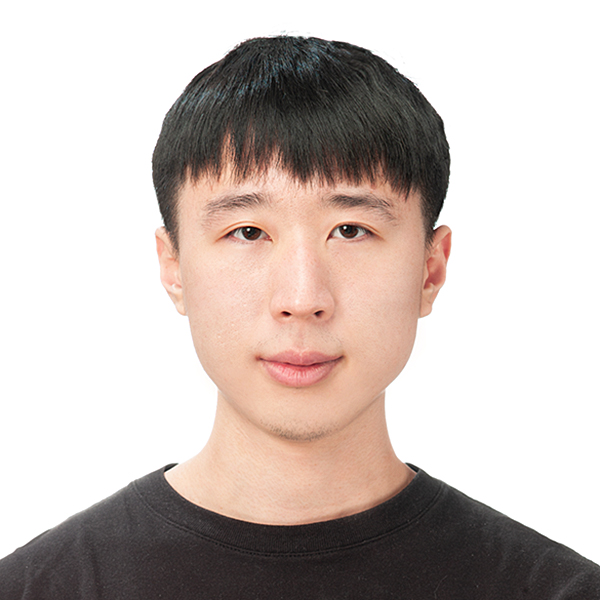
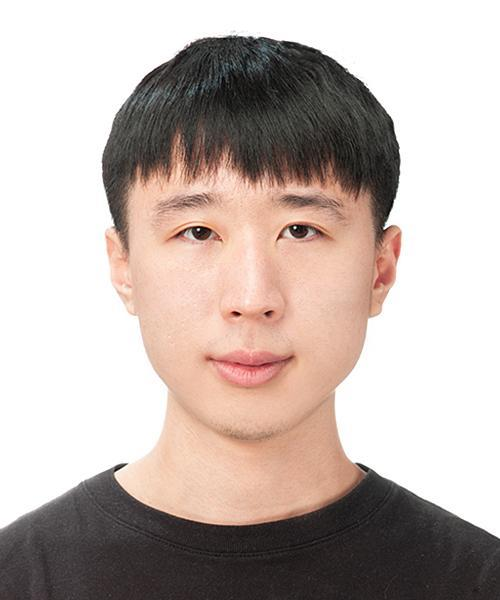
add profile images and resize them

diff --git a/about.html b/about.html
@@ -178,7 +178,7 @@
                 <div class="col-lg-3 col-md-6 wow fadeInUp" data-wow-delay="0.7s">
                     <div class="team-item position-relative rounded overflow-hidden">
                         <div class="overflow-hidden">
-                            <img class="img-fluid" src="img/team-1.png" alt="">
+                            <img class="img-fluid" src="img/team-KhizarAnjum.jpg" alt="">
                         </div>
                         <div class="team-text bg-light text-center p-4">
                             <h5>Khizar Anjum</h5>
@@ -227,7 +227,7 @@
                 <div class="col-lg-3 col-md-6 wow fadeInUp" data-wow-delay="0.7s">
                     <div class="team-item position-relative rounded overflow-hidden">
                         <div class="overflow-hidden">
-                            <img class="img-fluid" src="img/team-1.png" alt="">
+                            <img class="img-fluid" src="img/team-AayushiKasera.jpg" alt="">
                         </div>
                         <div class="team-text bg-light text-center p-4">
                             <h5>Aayushi Kasera</h5>
@@ -257,7 +257,7 @@
                 <div class="col-lg-3 col-md-6 wow fadeInUp" data-wow-delay="0.7s">
                     <div class="team-item position-relative rounded overflow-hidden">
                         <div class="overflow-hidden">
-                            <img class="img-fluid" src="img/team-1.png" alt="">
+                            <img class="img-fluid" src="img/team-AdityaKesari.jpeg" alt="">
                         </div>
                         <div class="team-text bg-light text-center p-4">
                             <h5>Aditya Kesari</h5>

diff --git a/index.html b/index.html
@@ -105,7 +105,7 @@
             <div class="row g-5">
                 <div class="col-lg-6 wow fadeIn" data-wow-delay="0.1s">
                     <div class="d-flex flex-column">
-                        <img class="img-fluid rounded w-75 align-self-end" src="img/networking.jpg" alt="">
+                        <img class="img-fluid rounded w-75 align-self-end" src="img/conference.jpeg" alt="">
                     </div>
                 </div>
                 <div class="col-lg-6 wow fadeIn" data-wow-delay="0.5s">

diff --git a/resize_img.py b/resize_img.py
@@ -38,7 +38,7 @@ def resize_image(input_path, output_path, width=500, height=600):
         print(f"Image resized to {width}x{height} and saved as {output_path}")
 
 # Example usage:
-input_path = 'img/winlab.jpg'  # Replace with your input image path
-output_path = 'img/winlab.jpg'  # Replace with your desired output image path
-crop_image_to_ratio(input_path, output_path, 1, 1)
-resize_image(input_path, input_path, 1000, 1000)
+input_path = 'img/team-AdityaKesari.jpeg'  # Replace with your input image path
+output_path = 'img/team-AdityaKesari.jpeg'  # Replace with your desired output image path
+crop_image_to_ratio(input_path, output_path, 5, 6)
+resize_image(input_path, input_path, 500, 600)
